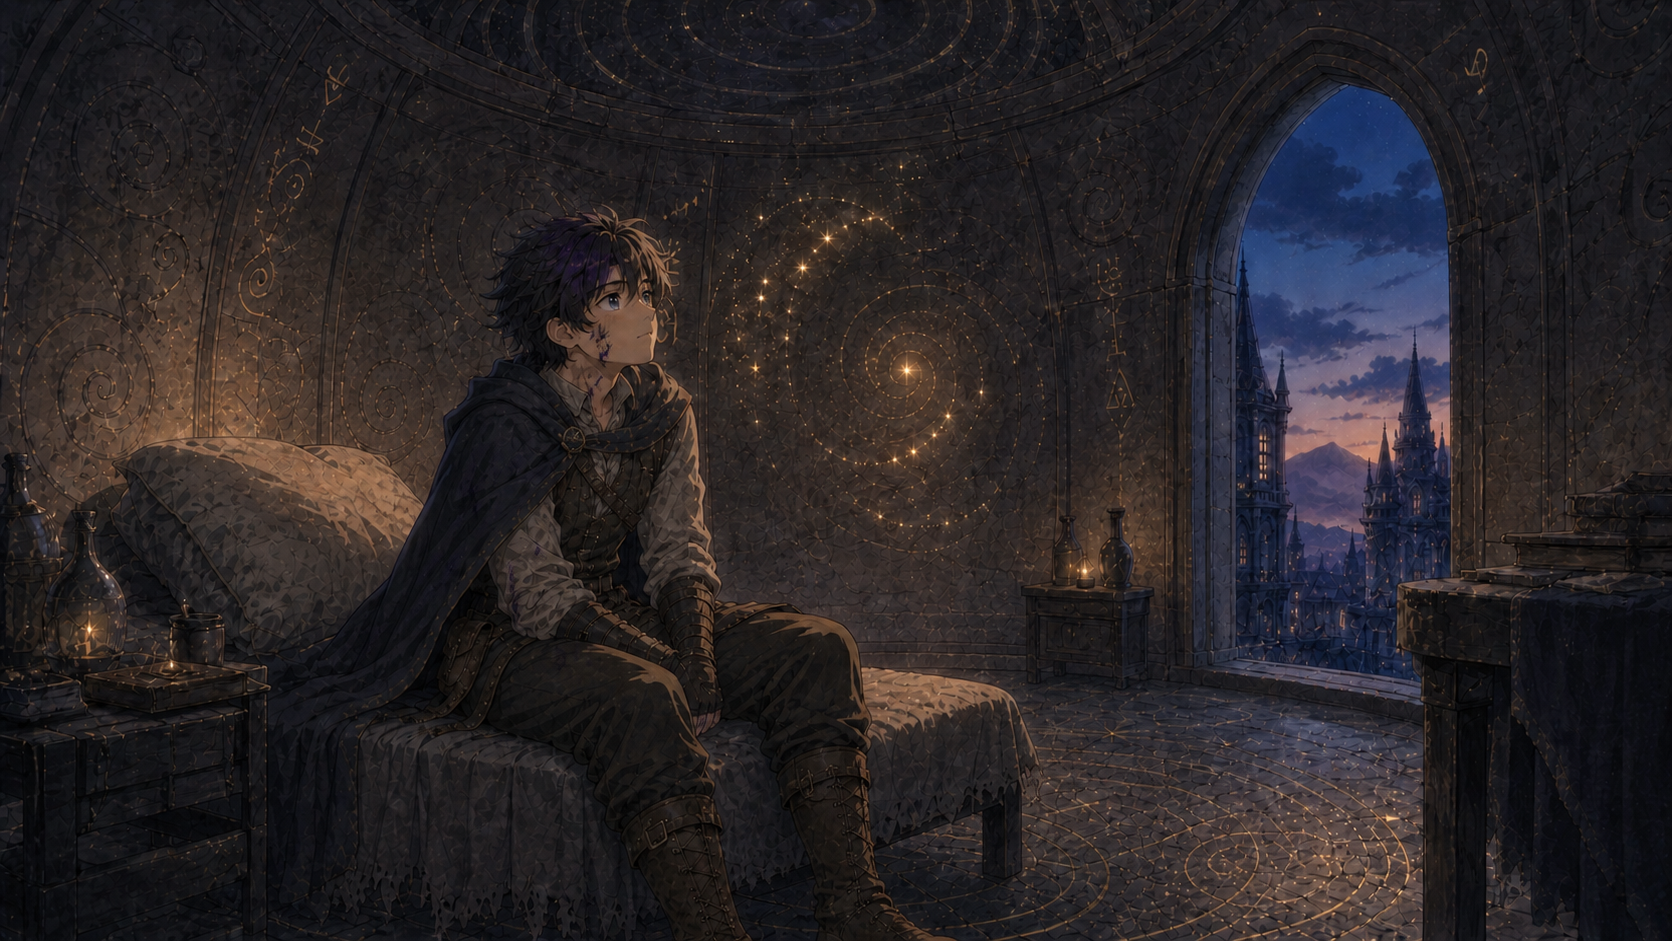
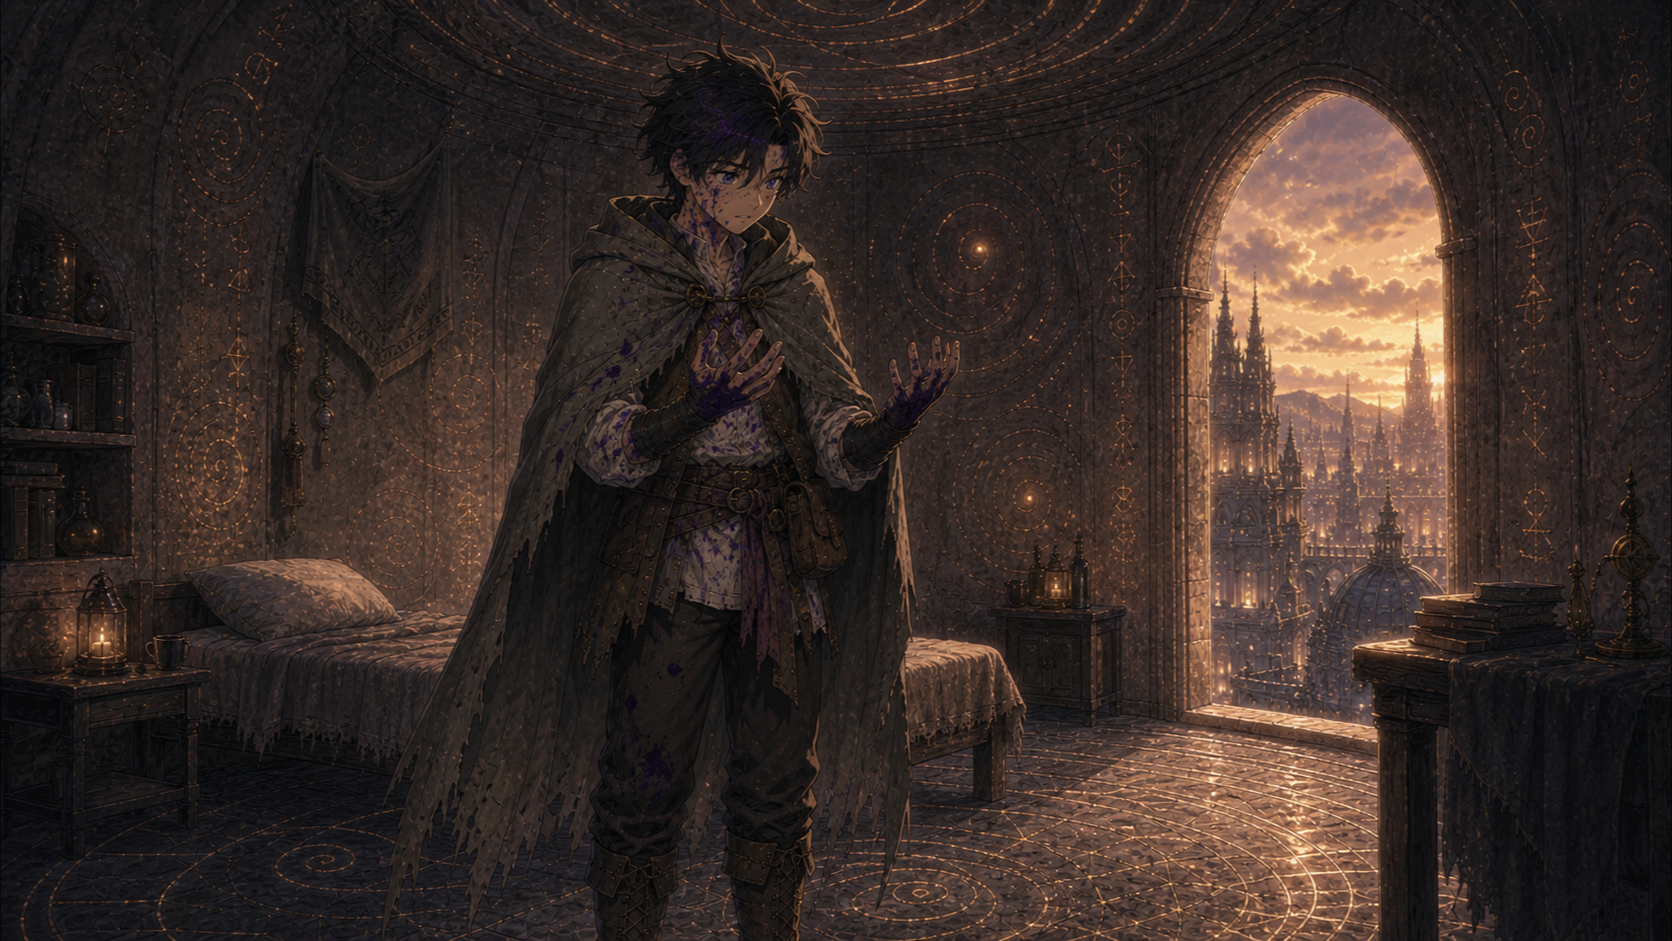
Swap aerin_room_solrien (Aerin standing, looking at ink-stained hands)
Cache-buster bumped to 20260505k so returning visitors pick up the
new bytes immediately.

diff --git a/lirien/index.html b/lirien/index.html
@@ -13,7 +13,7 @@
 	<link rel="preconnect" href="https://fonts.googleapis.com">
 	<link rel="preconnect" href="https://fonts.gstatic.com" crossorigin>
 	<link href="https://fonts.googleapis.com/css2?family=Cormorant+Garamond:ital,wght@0,300;0,400;1,300;1,400&display=swap" rel="stylesheet">
-	<link rel="stylesheet" href="style.css?v=20260505j">
+	<link rel="stylesheet" href="style.css?v=20260505k">
 </head>
 <body>
 	<div id="bg" class="bg"><img id="bg-image" class="bg-image" alt=""></div>
@@ -157,7 +157,7 @@
 		<div id="dev-list" class="dev-list"></div>
 		<div class="dev-footer">backtick (<code>`</code>) toggles &middot; esc closes &middot; depth-first across branches</div>
 	</div>
-	<script src="ink.js?v=20260505j"></script>
-	<script src="main.js?v=20260505j"></script>
+	<script src="ink.js?v=20260505k"></script>
+	<script src="main.js?v=20260505k"></script>
 </body>
 </html>

diff --git a/lirien/main.js b/lirien/main.js
@@ -27,7 +27,7 @@ const MUSIC_DIR = "music/";
 // tags, so without a query-param version on their URLs returning
 // visitors keep getting the cached old bytes. Appending ?v=<id>
 // makes the URL itself change → browser fetches as a new resource.
-const ASSET_VERSION = "20260505j";
+const ASSET_VERSION = "20260505k";
 function bgUrl(name)    { return ATMOSPHERE_DIR + name + ".png?v=" + ASSET_VERSION; }
 function musicUrl(name) { return MUSIC_DIR      + name + ".ogg?v=" + ASSET_VERSION; }
 
